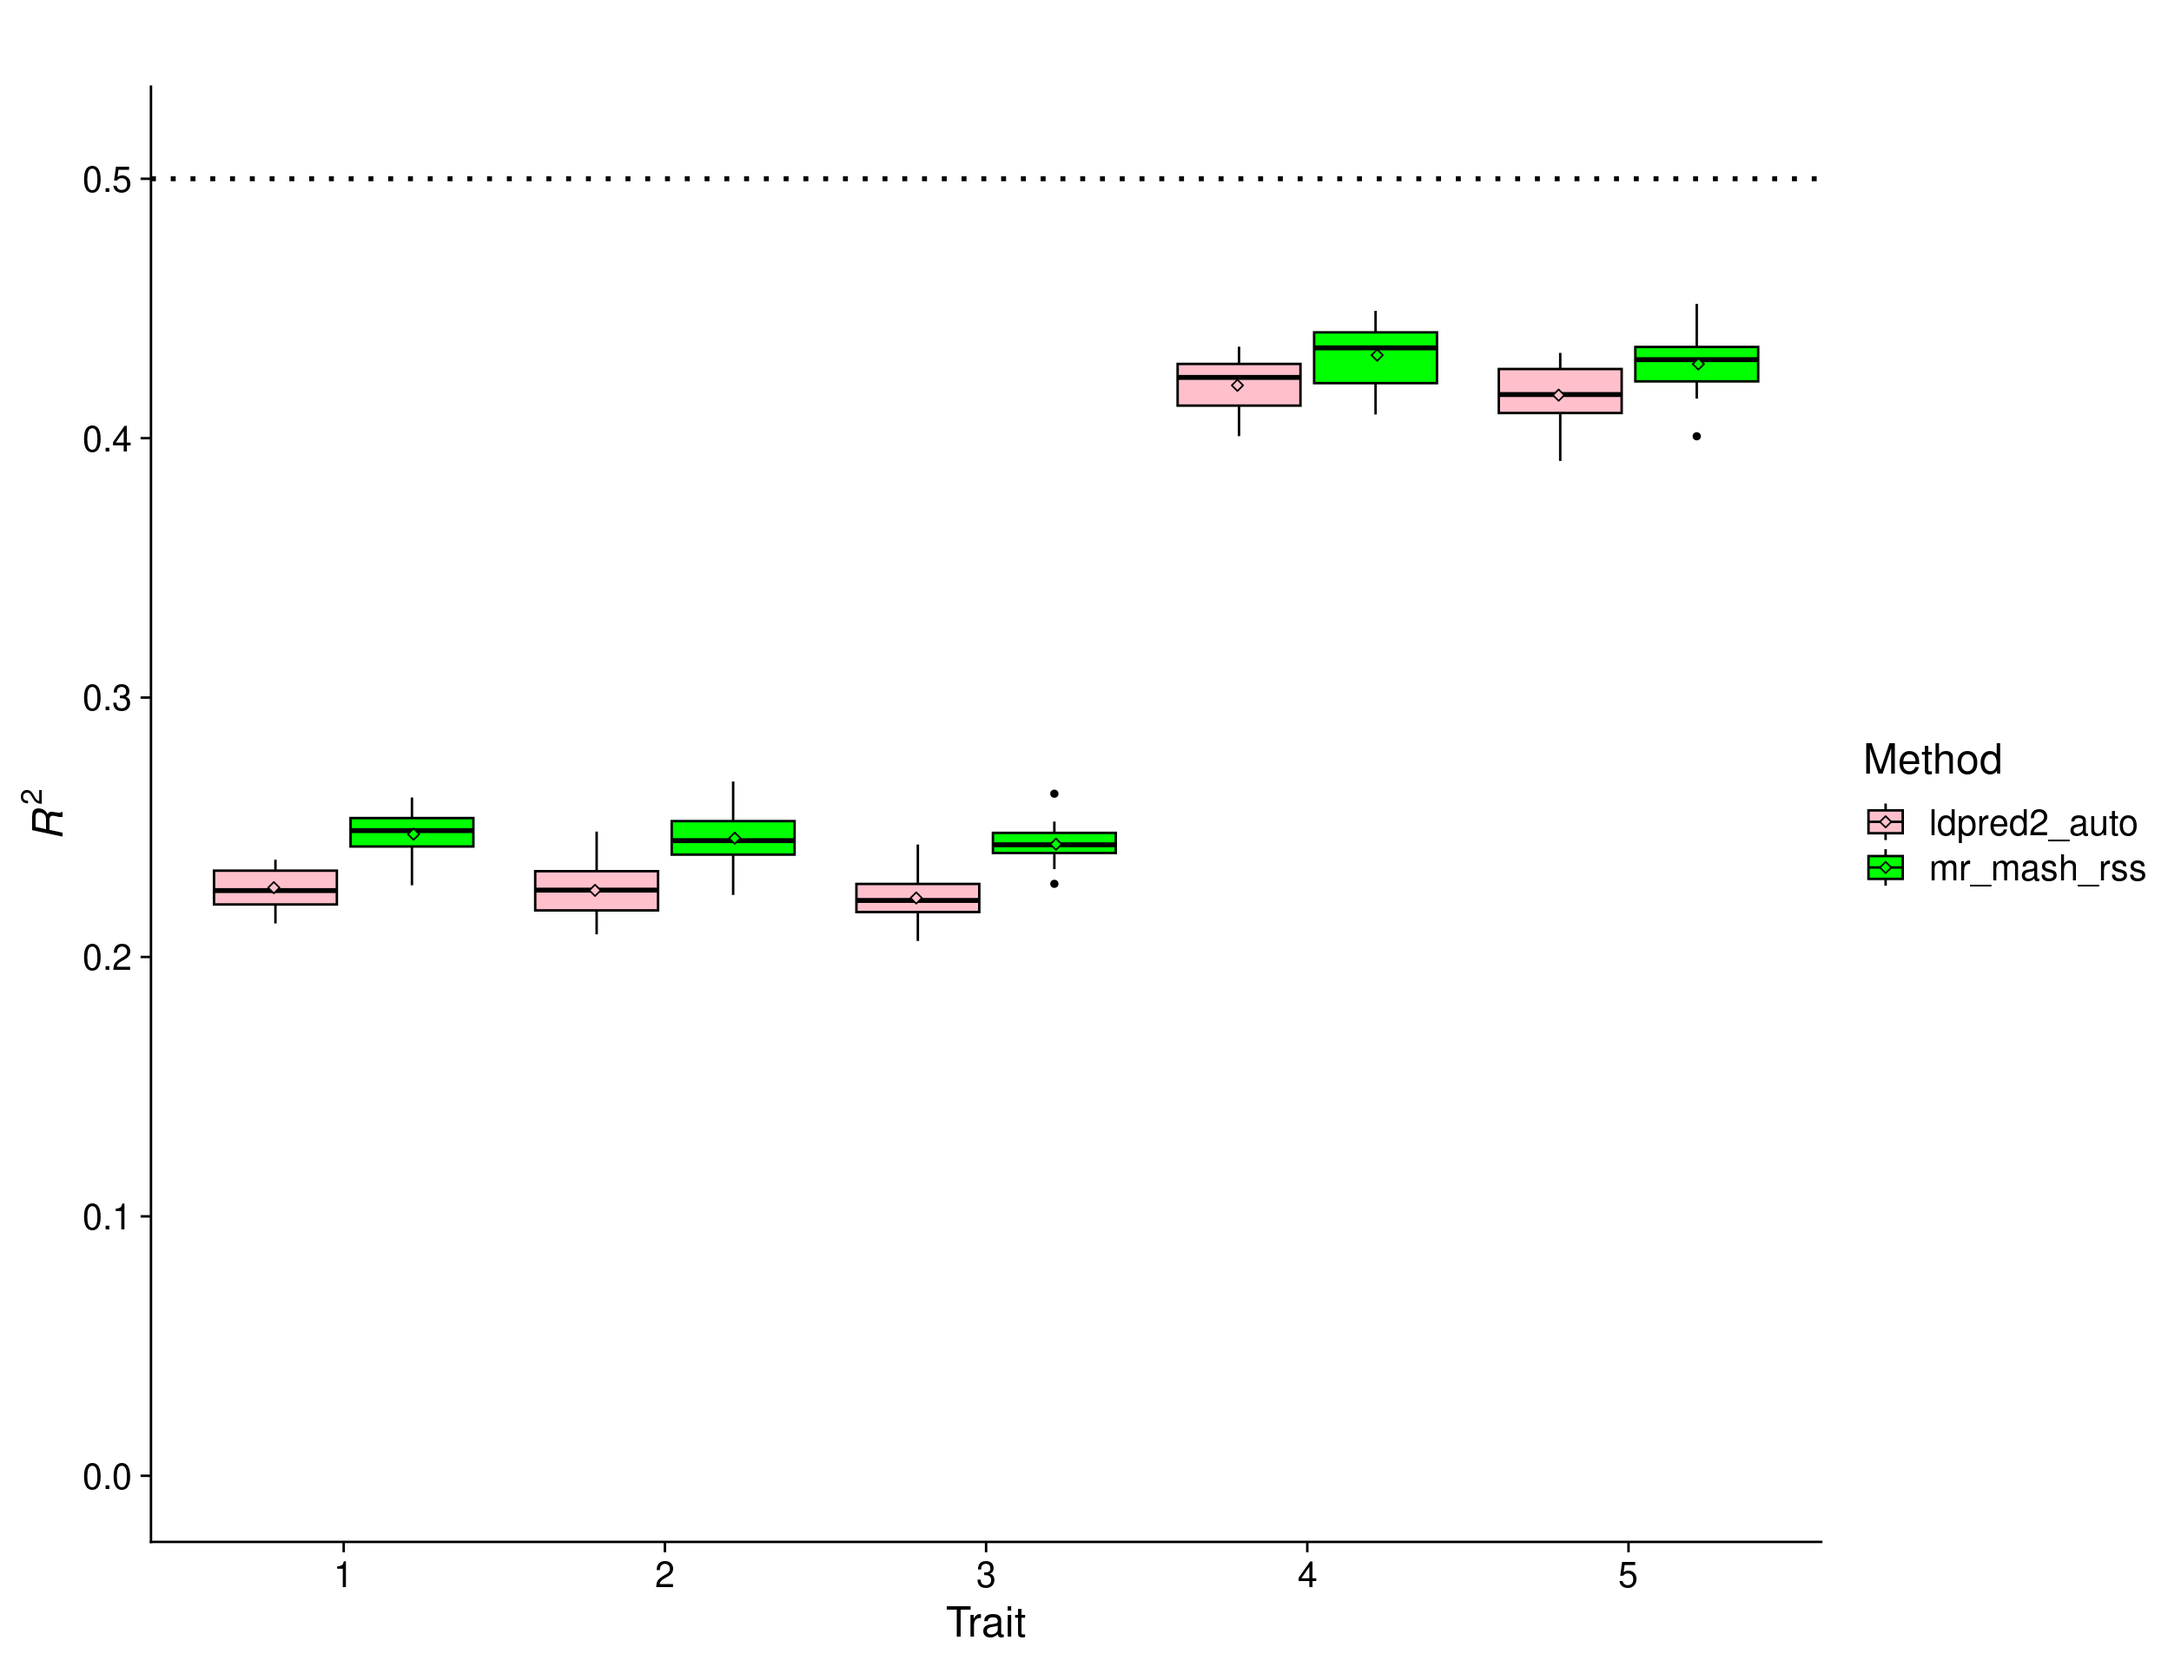
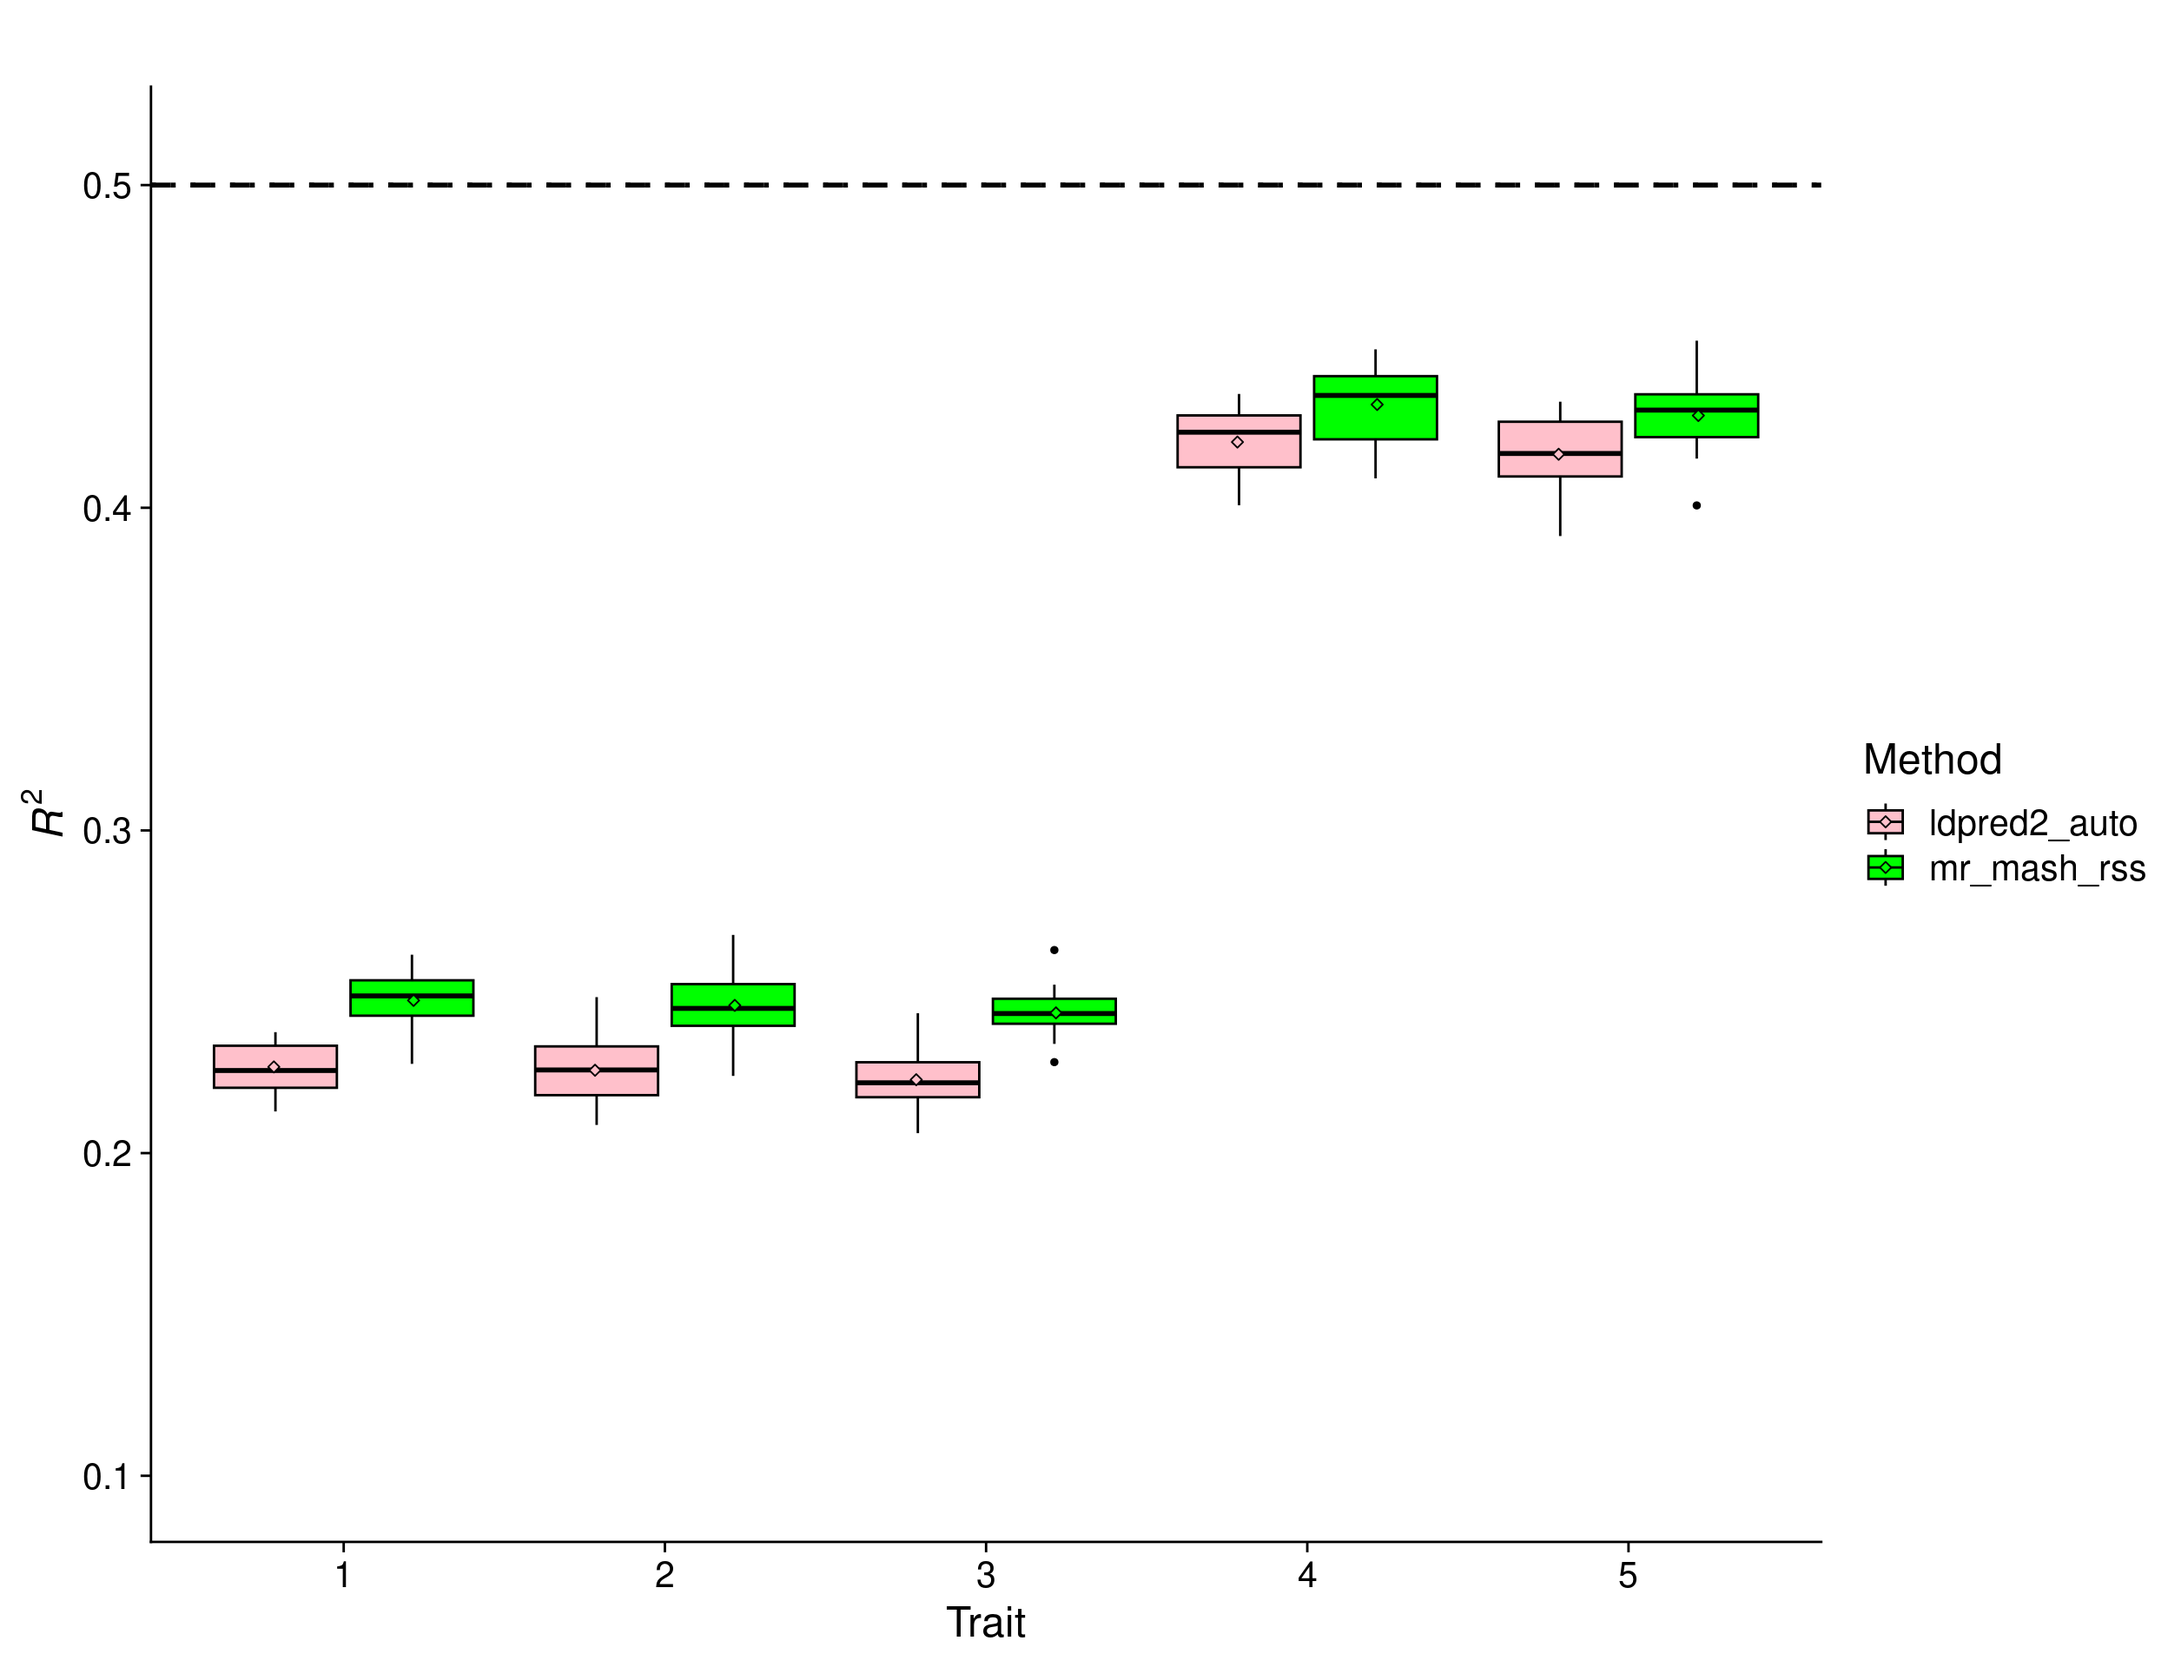
Build site.

diff --git a/docs/ukb_sim_results.html b/docs/ukb_sim_results.html
@@ -534,15 +534,15 @@ project makes it easier to run your code on other machines.</p>
 <div class="panel panel-default">
 <div class="panel-heading">
 <p class="panel-title">
-<a data-toggle="collapse" data-parent="#workflowr-checks" href="#strongRepositoryversionstrongahrefhttpsgithubcommorgantelabmrmashrssanalysistree963fdb6876a2858196e585d9a2a5cbd0c4a6f726targetblank963fdb6a">
+<a data-toggle="collapse" data-parent="#workflowr-checks" href="#strongRepositoryversionstrongahrefhttpsgithubcommorgantelabmrmashrssanalysistree1b792edf62830669ad8e8170a28795770f313086targetblank1b792eda">
 <span class="glyphicon glyphicon-ok text-success"
 aria-hidden="true"></span> <strong>Repository version:</strong>
-<a href="https://github.com/morgantelab/mr_mash_rss_analysis/tree/963fdb6876a2858196e585d9a2a5cbd0c4a6f726" target="_blank">963fdb6</a>
+<a href="https://github.com/morgantelab/mr_mash_rss_analysis/tree/1b792edf62830669ad8e8170a28795770f313086" target="_blank">1b792ed</a>
 </a>
 </p>
 </div>
 <div
[2 lines of base64/hex data omitted]
 class="panel-collapse collapse">
 <div class="panel-body">
 <p>
@@ -552,7 +552,7 @@ reproducibility.
 </p>
 <p>
 The results in this page were generated with repository version
-<a href="https://github.com/morgantelab/mr_mash_rss_analysis/tree/963fdb6876a2858196e585d9a2a5cbd0c4a6f726" target="_blank">963fdb6</a>.
+<a href="https://github.com/morgantelab/mr_mash_rss_analysis/tree/1b792edf62830669ad8e8170a28795770f313086" target="_blank">1b792ed</a>.
 See the <em>Past versions</em> tab to see a history of the changes made
 to the R Markdown and HTML files.
 </p>
@@ -629,6 +629,40 @@ Message
 </tr>
 </thead>
 <tbody>
+<tr>
+<td>
+Rmd
+</td>
+<td>
+<a href="https://github.com/morgantelab/mr_mash_rss_analysis/blob/1b792edf62830669ad8e8170a28795770f313086/analysis/ukb_sim_results.Rmd" target="_blank">1b792ed</a>
+</td>
+<td>
+fmorgante
+</td>
+<td>
+2023-06-28
+</td>
+<td>
+Add a few more details
+</td>
+</tr>
+<tr>
+<td>
+html
+</td>
+<td>
+<a href="https://rawcdn.githack.com/morgantelab/mr_mash_rss_analysis/3da045bd41fdd9b3ecbeb196f551facb17217a4e/docs/ukb_sim_results.html" target="_blank">3da045b</a>
+</td>
+<td>
+fmorgante
+</td>
+<td>
+2023-06-28
+</td>
+<td>
+Build site.
+</td>
+</tr>
 <tr>
 <td>
 Rmd
@@ -1015,8 +1049,8 @@ same grid as in the original paper. NB this is a univariate method.</li>
 initialized as 0.5/22 (WRONG) and <span class="math inline">\(p\)</span>
 initialized using the same grid as in the original paper. NB this is a
 univariate method.</li>
-<li><em>mr.mash.rss</em> per-chromosome, with only data-driven
-covariance matrices computed as described in the <a
+<li><em>mr.mash.rss</em> per-chromosome, with both canonical and
+data-driven covariance matrices computed as described in the <a
 href="https://www.biorxiv.org/content/10.1101/2022.11.22.517471v4.abstract">mr.mash
 paper</a>, updating the (full rank) residual covariance and the mixture
 weights, without standardizing the variables. The residual covariance
@@ -1196,7 +1230,7 @@ res &lt;- transform(res, scenario=as.factor(scenario),
                       method=as.factor(method),
                       trait=as.factor(trait))
 
-p_methods_shared &lt;- ggplot(res, aes(x = trait, y = score, fill = method)) +
+p_mostly_null &lt;- ggplot(res, aes(x = trait, y = score, fill = method)) +
   geom_boxplot(color = &quot;black&quot;, outlier.size = 1, width = 0.85) +
   stat_summary(fun=mean, geom=&quot;point&quot;, shape=23,
                position = position_dodge2(width = 0.87,   
@@ -1207,7 +1241,7 @@ p_methods_shared &lt;- ggplot(res, aes(x = trait, y = score, fill = method)) +
   geom_hline(yintercept=0.5, linetype=&quot;dotted&quot;, linewidth=1, color = &quot;black&quot;) +
   theme_cowplot(font_size = 18)
 
-print(p_methods_shared)</code></pre>
+print(p_mostly_null)</code></pre>
 <p><img src="figure/ukb_sim_results.Rmd/mostly%20null-1.png" width="1248" style="display: block; margin: auto;" /></p>
 <p>
 <button type="button" class="btn btn-default btn-xs btn-workflowr btn-workflowr-fig" data-toggle="collapse" data-target="#fig-no-spaces-mostly-null-1">
@@ -1267,8 +1301,17 @@ reassuringly, performs similarly to <em>LDpred2 auto</em>.</p>
 <div id="shared-in-subgroups-scenario" class="section level2">
 <h2>Shared in subgroups scenario</h2>
 <p>In this scenario, the effects were drawn from a mixture of two
-Multivariate Normal distributions, each with mean vector 0 but with
-different covariance matrix.</p>
+Multivariate Normal distributions, were drawn from <span
+class="math inline">\(w_1 MVN(0, \Sigma_1) + w_2 MVN(0,
+\Sigma_2)\)</span>, where <span class="math inline">\(w_1\)</span> = 0.5
+and <span class="math inline">\(w_2\)</span> = 0.5. <span
+class="math inline">\(\Sigma_1\)</span> is such that it achieves
+correlation across traits of 0.9 and variance of 1. <span
+class="math inline">\(\Sigma_2\)</span> is such that it achieves
+correlation across traits of 0.7 and variance of 1. The first component
+of the mixture applies to traits 1-3 while the second component applies
+to traits 4-5. The per-trait <span class="math inline">\(h^2_g\)</span>
+is 0.3 for traits 1-3 and 0.5 for the traits 4-5.</p>
 <pre class="r"><code>scenarioz &lt;- &quot;blocks_shared_effects_indep_resid&quot;
 methodz &lt;- c(&quot;mr_mash_rss&quot;, &quot;ldpred2_auto&quot;)
 
@@ -1302,19 +1345,65 @@ res &lt;- transform(res, scenario=as.factor(scenario),
                       method=as.factor(method),
                       trait=as.factor(trait))
 
-p_methods_shared &lt;- ggplot(res, aes(x = trait, y = score, fill = method)) +
+p_blocks_shared &lt;- ggplot(res, aes(x = trait, y = score, fill = method)) +
   geom_boxplot(color = &quot;black&quot;, outlier.size = 1, width = 0.85) +
   stat_summary(fun=mean, geom=&quot;point&quot;, shape=23,
                position = position_dodge2(width = 0.87,   
                                           preserve = &quot;single&quot;)) +
-  ylim(0.0, 0.51) +
+  ylim(0.1, 0.51) +
   scale_fill_manual(values = c(&quot;pink&quot;, &quot;green&quot;)) +
   labs(x = &quot;Trait&quot;, y = expression(italic(R)^2), fill=&quot;Method&quot;, title=&quot;&quot;) +
   geom_hline(yintercept=0.5, linetype=&quot;dotted&quot;, linewidth=1, color = &quot;black&quot;) +
+  geom_hline(yintercept=0.5, linetype=&quot;dashed&quot;, linewidth=1, color = &quot;black&quot;) +
   theme_cowplot(font_size = 18)
 
-print(p_methods_shared)</code></pre>
+print(p_blocks_shared)</code></pre>
 <p><img src="figure/ukb_sim_results.Rmd/shared%20in%20subgroups-1.png" width="1248" style="display: block; margin: auto;" /></p>
+<p>
+<button type="button" class="btn btn-default btn-xs btn-workflowr btn-workflowr-fig" data-toggle="collapse" data-target="#fig-no-spaces-shared-in-subgroups-1">
+Past versions of "shared in subgroups-1.png"
+</button>
+</p>
+<div id="fig-no-spaces-shared-in-subgroups-1" class="collapse">
+<div class="table-responsive">
+<table class="table table-condensed table-hover">
+<thead>
+<tr>
+<th>
+Version
+</th>
+<th>
+Author
+</th>
+<th>
+Date
+</th>
+</tr>
+</thead>
+<tbody>
+<tr>
+<td>
+<a href="https://github.com/morgantelab/mr_mash_rss_analysis/blob/3da045bd41fdd9b3ecbeb196f551facb17217a4e/docs/figure/ukb_sim_results.Rmd/shared in subgroups-1.png" target="_blank">3da045b</a>
+</td>
+<td>
+fmorgante
+</td>
+<td>
+2023-06-28
+</td>
+</tr>
+</tbody>
+</table>
+</div>
+</div>
+<p>In this scenario, multivariate methods can have some advantage over
+univariate methods, provided that the former can adapt to the complex
+structure of the effects. The results show that <em>mr.mash.rss</em>
+does better than <em>LDpred2 auto</em> across all the traits. However,
+the improvement is more evident in traits 1-3, due to the higher effect
+correlation across traits, the larger number of traits with shared
+effects, and the smaller <span class="math inline">\(h^2_g\)</span>
+(harder scenario for univariate methods).</p>
 <br>
 <p>
 <button type="button" class="btn btn-default btn-workflowr btn-workflowr-sessioninfo" data-toggle="collapse" data-target="#workflowr-sessioninfo" style="display: block;">
